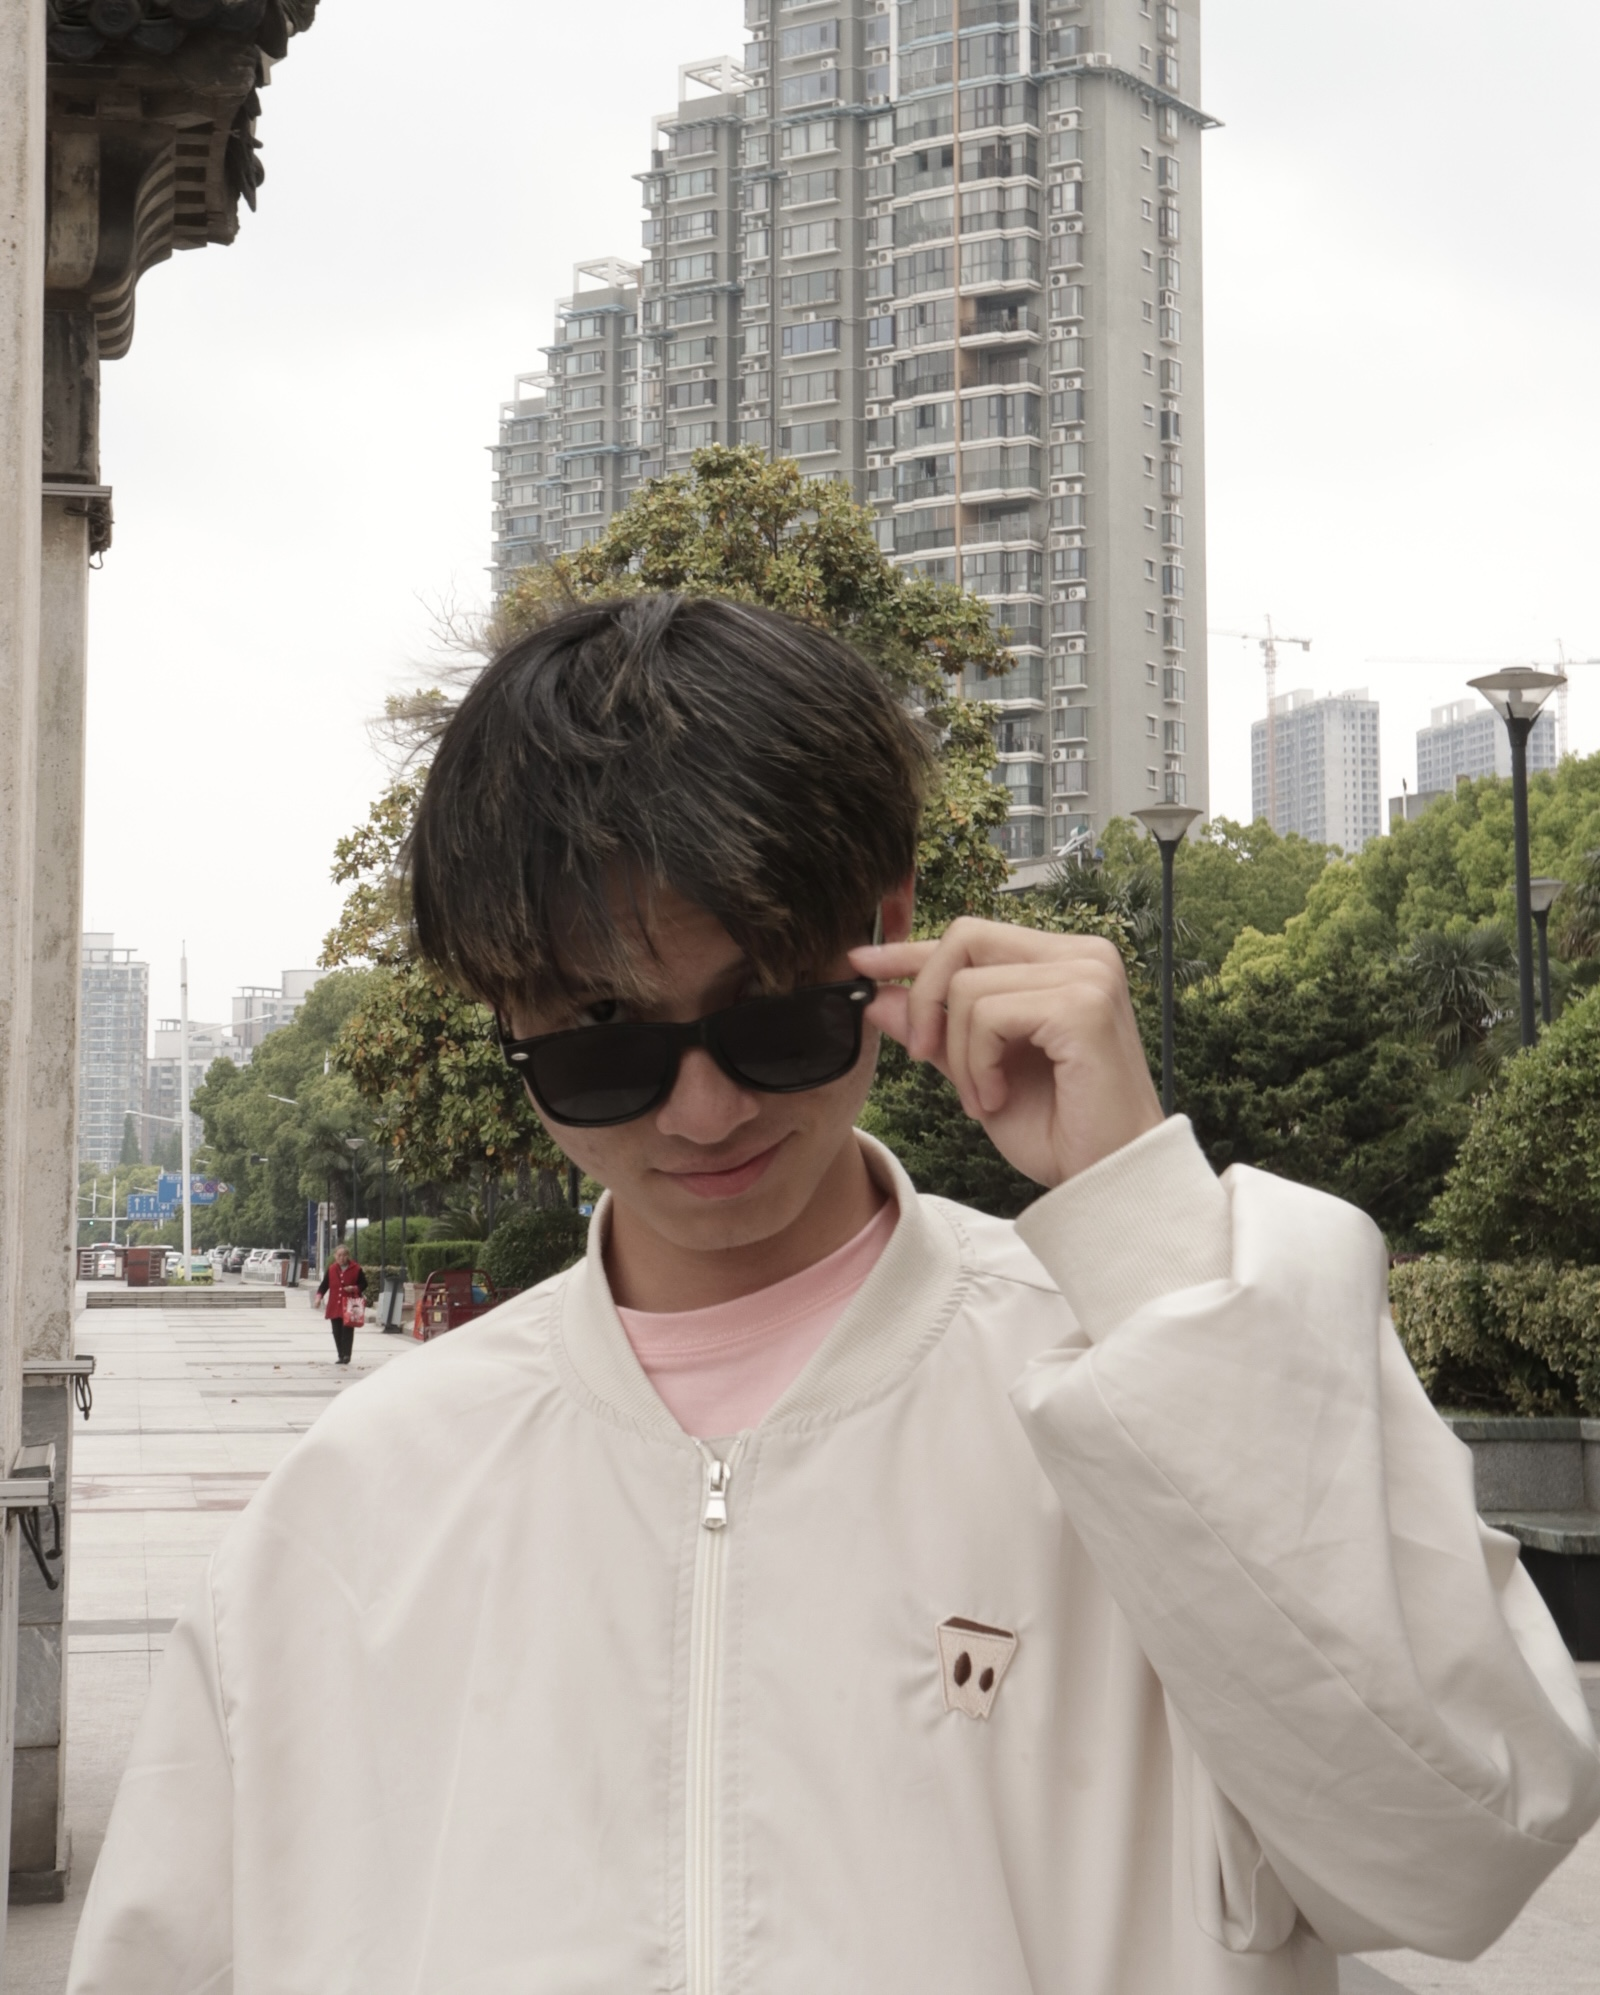
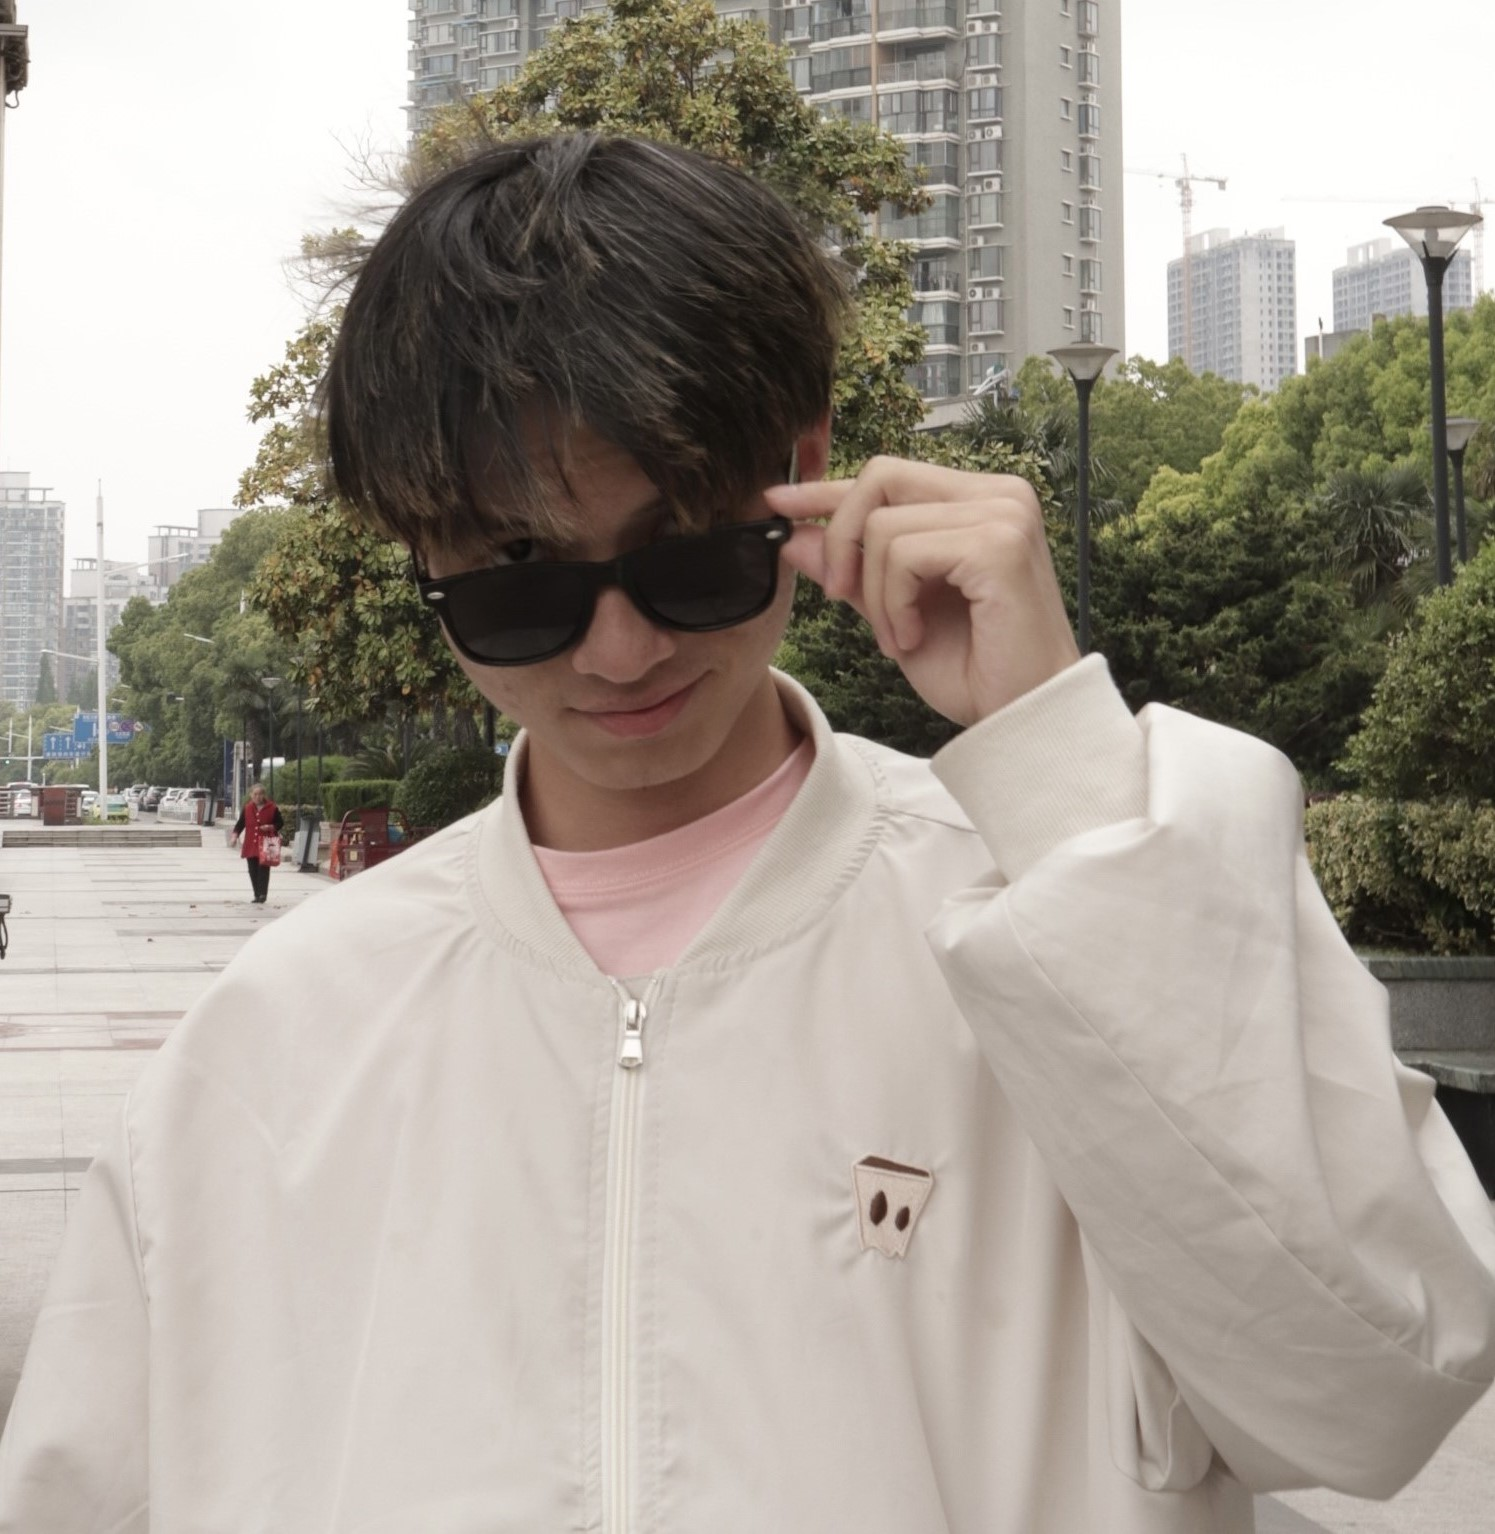
updates

diff --git a/style.css b/style.css
@@ -85,8 +85,7 @@ h1 {
 }
 
 /**************************************************/
-/* Profile image and description. */
-
+/* Profile image and description */
 #intro {
   padding-top: 6em;
   display: flex;
@@ -103,13 +102,38 @@ h1 {
   height: 12em;
   float: left;
   overflow: hidden;
-  border-radius: 1em;
+  position: relative; 
 }
+
 
 #intro-image img {
-  width: 12em;
+  width: 100%;
+  height: 100%;
+  object-fit: cover; 
+  position: absolute; 
+  transition: opacity 0.3s ease;
 }
 
+
+#intro-image img.profile-normal {
+  opacity: 1;
+  z-index: 1;
+}
+
+
+#intro-image img.profile-hover {
+  opacity: 0;
+  z-index: 2;
+}
+
+
+#intro-image:hover img.profile-normal {
+  opacity: 0;
+}
+
+#intro-image:hover img.profile-hover {
+  opacity: 1;
+}
 /**************************************************/
 /* Section buttons. */
 

diff --git a/index.html b/index.html
@@ -55,10 +55,13 @@
         <br><br>
       </p>
     </div>
-    <div id="intro-image">
+    <!-- <div id="intro-image">
       <img src="images/profile.jpg">
+    </div> -->
+    <div id="intro-image" class="profile-image-container">
+      <img src="images/profile.jpg" class="profile-normal" alt="Yang Yang">
+      <img src="images/profile-hover.jpg" class="profile-hover" alt="Yang Yang">
     </div>
-
 
 
 
